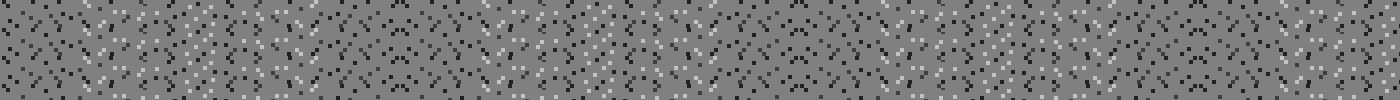
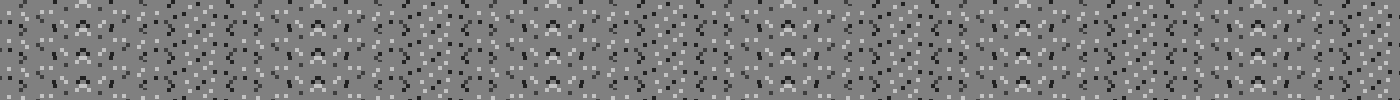
Sorry nick

Changed region(s): [[0.215, 0.0, 1.0, 1.0], [0.0, 0.0, 0.0614, 1.0], [0.215, 0.63, 0.2457, 0.66]]

diff --git a/sketch.js b/sketch.js
@@ -5,7 +5,7 @@ var GroundImg, BgImg, PlayerImg, EnemyImg, FireImg;
 
 function preload() {
 
-    GroundImg = loadImage('http://i.imgur.com/vO9az9I.png');
+    GroundImg = loadImage('http://i.imgur.com/p6L1baG.png');
     FireImg = loadImage('http://i.imgur.com/0NUZboL.png');
     PlayerImg = loadImage('http://i.imgur.com/AljRUIL.png');
 
@@ -40,10 +40,14 @@ function draw() {
   camera.position.x = PLAYER.position.x;
 
   //My poor attempt to get the ground to wrap with movement
-  if(camera.position.x > width / 4 + GROUND.position.x) {
-    GROUND.position.x += (camera.position.x) - (width / 4 + GROUND.position.x);
+  if(camera.position.x > GROUND.position.x + width / 4) {
+    GROUND.position.x += (camera.position.x) - (GROUND.position.x + width / 4);
   } else if(camera.position.x < GROUND.position.x + width / 4) {
     GROUND.position.x -= GROUND.width;
+  }
+
+  if(PLAYER.position.y < 45) {
+    PLAYER.position.y = 45;
   }
 
   //Basic left and right movement for PLAYER aka KANYE aka YEEZUS
